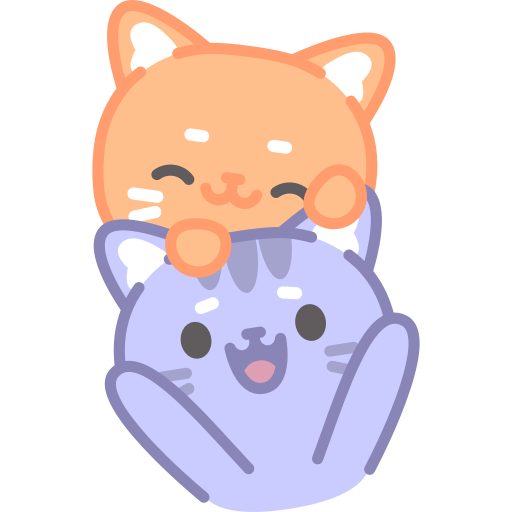
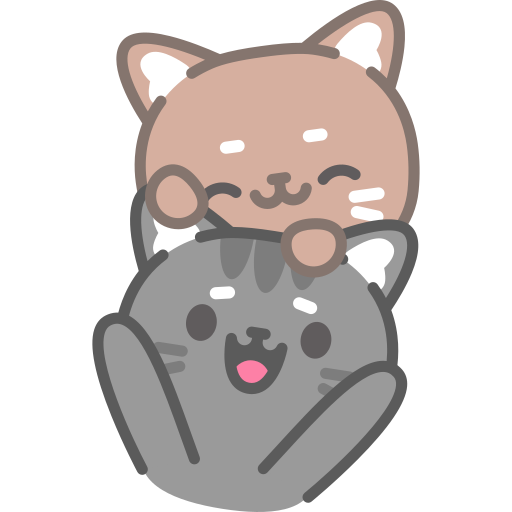
primary color and check out image

diff --git a/components/global/StickersHomePage.tsx b/components/global/StickersHomePage.tsx
@@ -9,6 +9,7 @@ import { Swiper, SwiperSlide } from 'swiper/react';
 
 // Import Swiper styles
 import 'swiper/css';
+import { Button } from '../ui/button'
 
 
 type Props = {}
@@ -19,14 +20,19 @@ function StickersHomePage({}: Props) {
 
   return (
     sheets &&
-    <div className='md:w-fit mx-auto overflow-x-hidden px-4 container'>
+    <div className='md:w-full  mx-auto overflow-x-hidden px-4 container'>
         <div className='flex  w-full  justify-end relative gap-3  my-4 '>
-            <Link href='/services/stickers' className=' rounded-full  w-fit  flex gap-2 items-center text-xs font-sans font-medium '>See more <ArrowRight size={18}/></Link>
+            <Link href='/services/stickers' className=' rounded-full  w-fit  flex gap-2 items-center text-xs font-sans font-medium '>
+                <Button>
+                See more
+                <ArrowRight size={18}/>
+                </Button>
+                </Link>
       </div>
       {/* <div className='relative mx-auto flex justify-center gap-2 md:gap-6 mt-4 md:p-6 w-fit '> */}
         <Swiper
             slidesPerView={4}
-            className='container w-full '
+            className='w-full'
             breakpoints={
                 {
                     0:{

diff --git a/components/global/StickerSheetsList.tsx b/components/global/StickerSheetsList.tsx
@@ -27,7 +27,7 @@ const StickerSheetsList = (props: Props) => {
                 <Input placeholder='Search sheet' className='w-full flex-1 pl-10'/>
             </div>
       </div>
-      <div className='md:container mx-auto grid grid-cols-2 md:grid-cols-5 gap-2 md:gap-6 mt-4 md:p-6'>
+      <div className='md:container mx-auto grid grid-cols-2 md:grid-cols-4 gap-2 md:gap-6 mt-4 md:p-6'>
         {
           (sheets).flat(1).map((item, index) => (
             <SheetComp key={index} item={item} index={index} sheets={sheets}/>
@@ -96,7 +96,7 @@ export const SheetComp = ({item,index,sheets}:{item:any,index:number,sheets:any}
                   <div>
                     <h3 className='opacity-75 capitalize text-xs md:text-sm font-sans font-medium'>{item.name}</h3>
                   </div>
-                  <Button className='py-5 rounded-full' onClick={(e)=>handleAddToCart(index%sheets.length,e)} variant={"secondary"} size={"sm"}>
+                  <Button className='py-5 px-8 rounded-full' onClick={(e)=>handleAddToCart(index%sheets.length,e)} variant={"secondary"} size={"sm"}>
                     Add <ShoppingBasketIcon/>
                   </Button> 
                 </div>

diff --git a/app/services/[service]/page.tsx b/app/services/[service]/page.tsx
@@ -43,7 +43,7 @@ const Page = (props: Props) => {
                 animate={{opacity:1,scale:1}}
                 className=' drop-shadow-2xl'>
                   {/* i want to take the service and show image of it  */}
-                  <Image width={450} className='w-[300px] md:w-[450px]' src={heroImages[params?.service as 'stickers'|'t-shirts' ]??''} alt=""></Image>
+                  <Image width={450} className='w-[240px] md:w-[400px]' src={heroImages[params?.service as 'stickers'|'t-shirts' ]??''} alt=""></Image>
             </motion.div>
             <div className='space-y-4'>
               <motion.h1 initial={{opacity:0,y:50}} animate={{opacity:1,y:0}} className='text-5xl md:text-7xl capitalize'>{params?.service}</motion.h1>

diff --git a/app/globals.css b/app/globals.css
@@ -13,8 +13,8 @@
     --popover: 0 0% 100%;
     --popover-foreground: 222.2 84% 4.9%;
  
-    --primary: 49 100% 69%;
-    --primary-foreground:  49 100% 25%;
+    --primary: 18 20% 77%;
+    --primary-foreground:  18 20% 35%;
 
     --secondary:  0 0% 60%;
     --secondary-foreground: 0 0% 30%;
